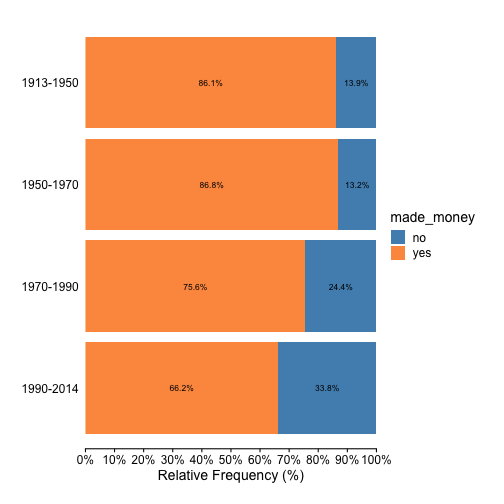
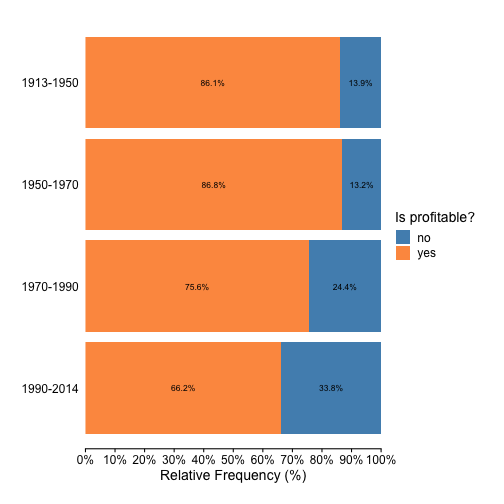
update 04-03-xxx

diff --git a/manuscript/04-03-horizontal-barplot-n-lollipop.md b/manuscript/04-03-horizontal-barplot-n-lollipop.md
@@ -38,7 +38,8 @@ plt(yvar = "year_cat", fillby = "made_money", label_size = 0)
 
 A>
 ```r
-plt(yvar = "year_cat", fillby="made_money", show_pct = T)
+plt(yvar = "year_cat", fillby = "made_money", show_pct = T, 
+    legend_title = "Is profitable?")
 ```
 
 ![Percents of Profitable vs. Unprofitable Films for Each Time Period](images/barploth_stacked-1.png)
@@ -79,7 +80,8 @@ rotate_axis_text(p, 10)
 
 A>
 ```r
-p = plt("votes", "mpaa", fillby = "made_money", label_size = 0, font_size = 9)
+p = plt("votes", "mpaa", fillby = "made_money", label_size = 0, font_size = 9,
+        legend_pos = "top")
 rotate_axis_text(p, 15)
 ```
 
@@ -121,7 +123,6 @@ df = read.csv(text="category,pct
 df$category = reorder(df$category, df$pct)
 str(df)
 ```
-
 A>
 ```
 'data.frame':	21 obs. of  2 variables:
@@ -141,7 +142,7 @@ plt("pct", "category", yorder = "descend", font_size = 10, show_pct = T,
 
 ![Demo H Bar Chart](images/barploth_vs_lollipop_p1-1.png)
 
-A>
+
 ```r
 plt = mk_lollipop(df)
 plt("pct", "category", yorder = "descend", font_size = 10, show_pct = T,
